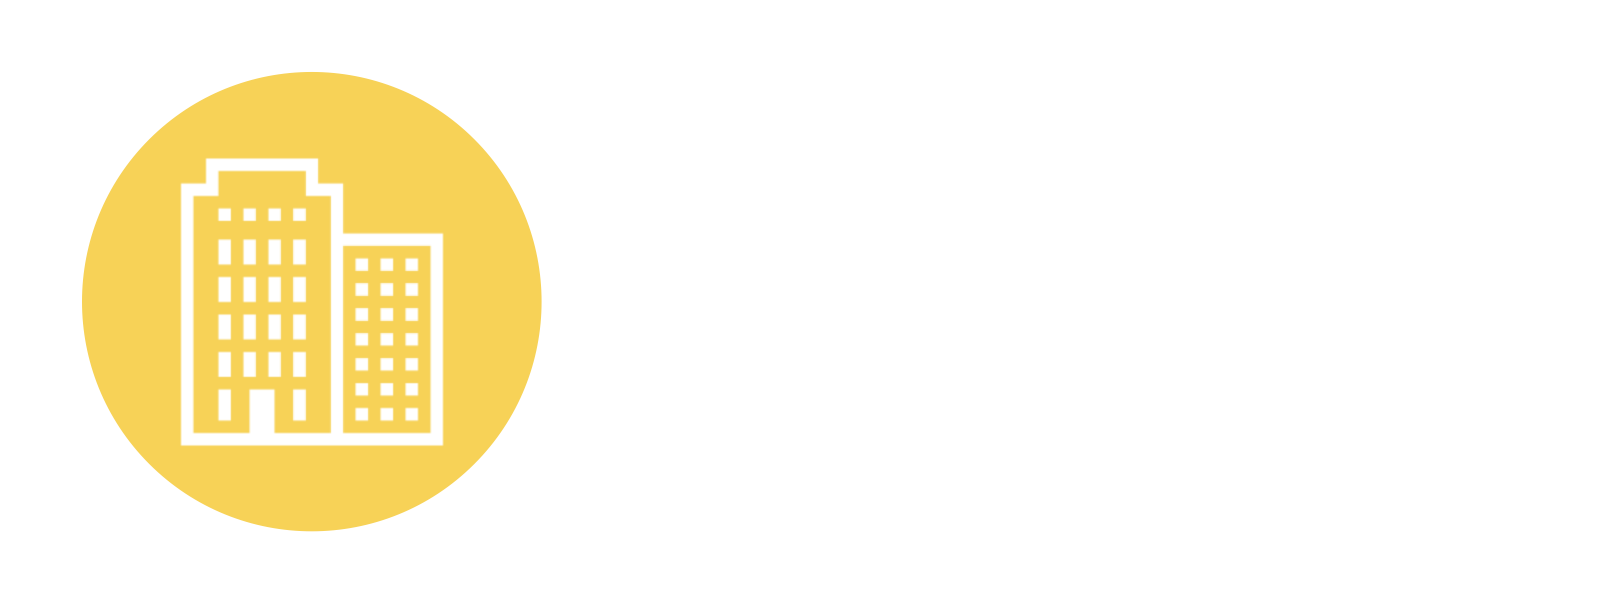
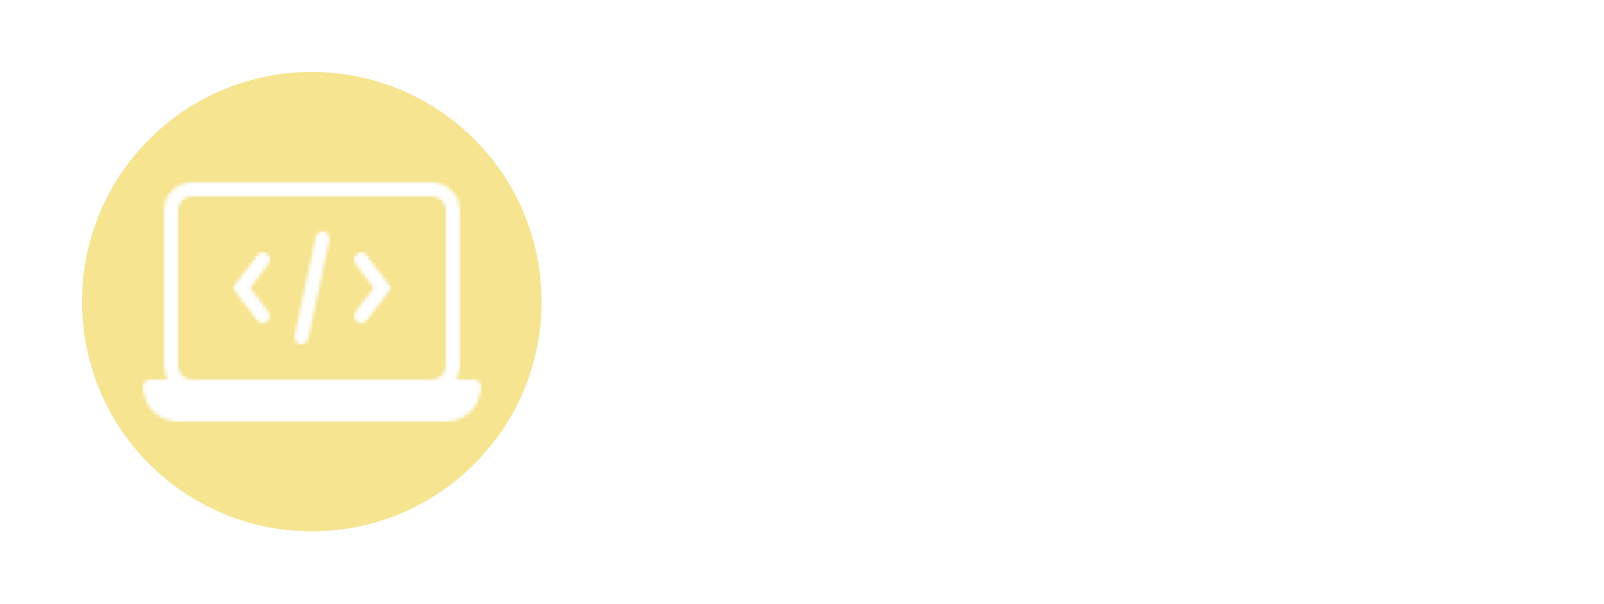
로고 이미지들 변경

Changed region(s): [[0.0312, 0.1192, 0.3429, 0.894]]

diff --git a/_pages/about.md b/_pages/about.md
@@ -4,7 +4,7 @@ title: ABOUT
 image: '/images/pages/logo.png'
 ---
 
-# <span style="color:#ffd045">이해온</span>의 <br/> 트래블로그.
+# <span style="color:#fae383">이해온</span>의 <br/> 트래블로그.
 
 ### 불타오르는<br/> 호기심을 연료로,<br/> 좌충우돌 지구 여행기
 

diff --git a/_pages/programming.md b/_pages/programming.md
@@ -4,7 +4,7 @@ title: programming
 image: '/images/pages/programming.png'
 ---
 
-# Programming <br/>with <span style="color:#ffd045">Haeon Lee</span>
+# Programming <br/>with <span style="color:#fae383">Haeon Lee</span>
 ### 똑똑한 개발자가 되고 싶어
 ---
 

diff --git a/_pages/business.md b/_pages/business.md
@@ -4,7 +4,7 @@ title: business
 image: '/images/pages/business.png'
 ---
 
-# Business <br/>with <span style="color:#ffd045">Haeon Lee</span>
+# Business <br/>with <span style="color:#fae383">Haeon Lee</span>
 ### 현명한 경영자가 되고 싶어
 ---
 

diff --git a/_pages/pi.md b/_pages/pi.md
@@ -4,7 +4,7 @@ title: pi
 image: '/images/pages/pi.png'
 ---
 
-# Let's be Pi <br/>with <span style="color:#ffd045">Haeon Lee</span>
+# Let's be Pi <br/>with <span style="color:#fae383">Haeon Lee</span>
 ### 즐거운 여행자가 되고 싶어
 ---
 
